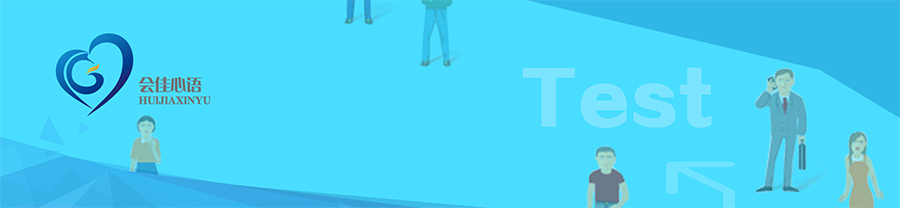
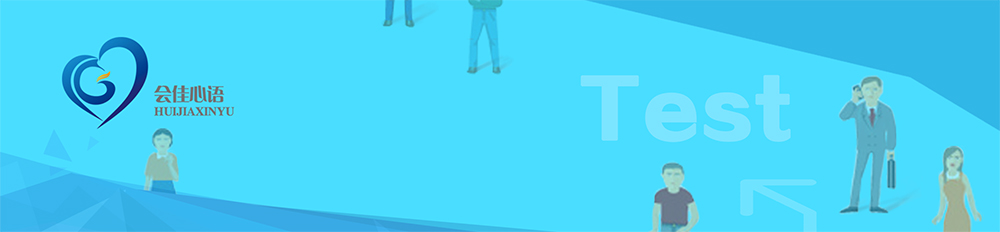
修改用户答题页面的样式

diff --git a/WebContent/css/huijia.css b/WebContent/css/huijia.css
@@ -1,0 +1,82 @@
+html,
+body {
+  height: 100%;
+  overflow:hidden;
+  /* The html and body elements cannot have any padding or margin. */
+}
+
+#nav {
+	/*height:40px;*/
+	width: 1000px;
+	margin: 0 auto 0 auto;
+	border-bottom: 2px solid #e7e7e7;
+}
+
+.huijia-header-bg {
+	height: 232px;
+	background-image: url(../images/header.jpg);
+}
+.huijia-header-nav {
+	height: 48px;
+	line-height:48px;
+	background-color: #fff;
+}
+
+.huijia-header-nav .brand h4{
+	font-size: 14px;
+	font-weight : bold;
+	margin-left: 20px;
+	margin-top: 20px;
+	color: #505050;
+}
+.huijia-header-nav .brand-right label{
+	margin-right: 10px;
+	color: #505050;
+}
+
+#logo_bar{
+	color : #005580;
+	font-weight : bold;
+}
+
+/* Wrapper for page content to push down footer */
+#wrap {
+  	
+}
+
+/* Set the fixed height of the footer here */
+#footer {
+	position: fixed;
+	height: 25px;
+	left : 0;
+	bottom: 0;
+	width:100%;
+	background-color: #eee;
+	/*background: url(../images/footer-bg.png) repeat-x;*/
+	color: #48545b;
+	border-top: 1px solid #c3c3c3;
+}
+#footer > div{
+	width : 980px;
+	margin : 0 auto;	
+	padding-left:10px;
+	color: #48545b;
+}
+#footer p{
+	height:24px;
+	line-height:24px;
+	font-size:12px;
+}
+
+/* Lastly, apply responsive CSS fixes as necessary */
+/*
+@media (max-width: 767px) {
+  #footer {
+    margin-left: -20px;
+    margin-right: -20px;
+    padding-left: 20px;
+    padding-right: 20px;
+  }
+  */
+}
+

diff --git a/src/main/com/huijia/eap/quiz/module/QuizModule.java b/src/main/com/huijia/eap/quiz/module/QuizModule.java
@@ -23,7 +23,9 @@ import org.nutz.mvc.upload.UploadAdaptor;
 
 import com.huijia.eap.GlobalConfig;
 import com.huijia.eap.annotation.AuthBy;
+import com.huijia.eap.auth.Auths;
 import com.huijia.eap.auth.bean.User;
+import com.huijia.eap.auth.user.service.UserService;
 import com.huijia.eap.commons.mvc.Pager;
 import com.huijia.eap.quiz.data.Company;
 import com.huijia.eap.quiz.data.Quiz;
@@ -62,6 +64,9 @@ public class QuizModule {
 	public void showtest(HttpServletRequest request){
 		List<Quiz> list = quizService.fetchAll();
 		request.setAttribute("quizlist", list);
+		
+		User currentUser = Auths.getUser(request);
+		request.setAttribute("user", currentUser);
 	}
 
 	/**
